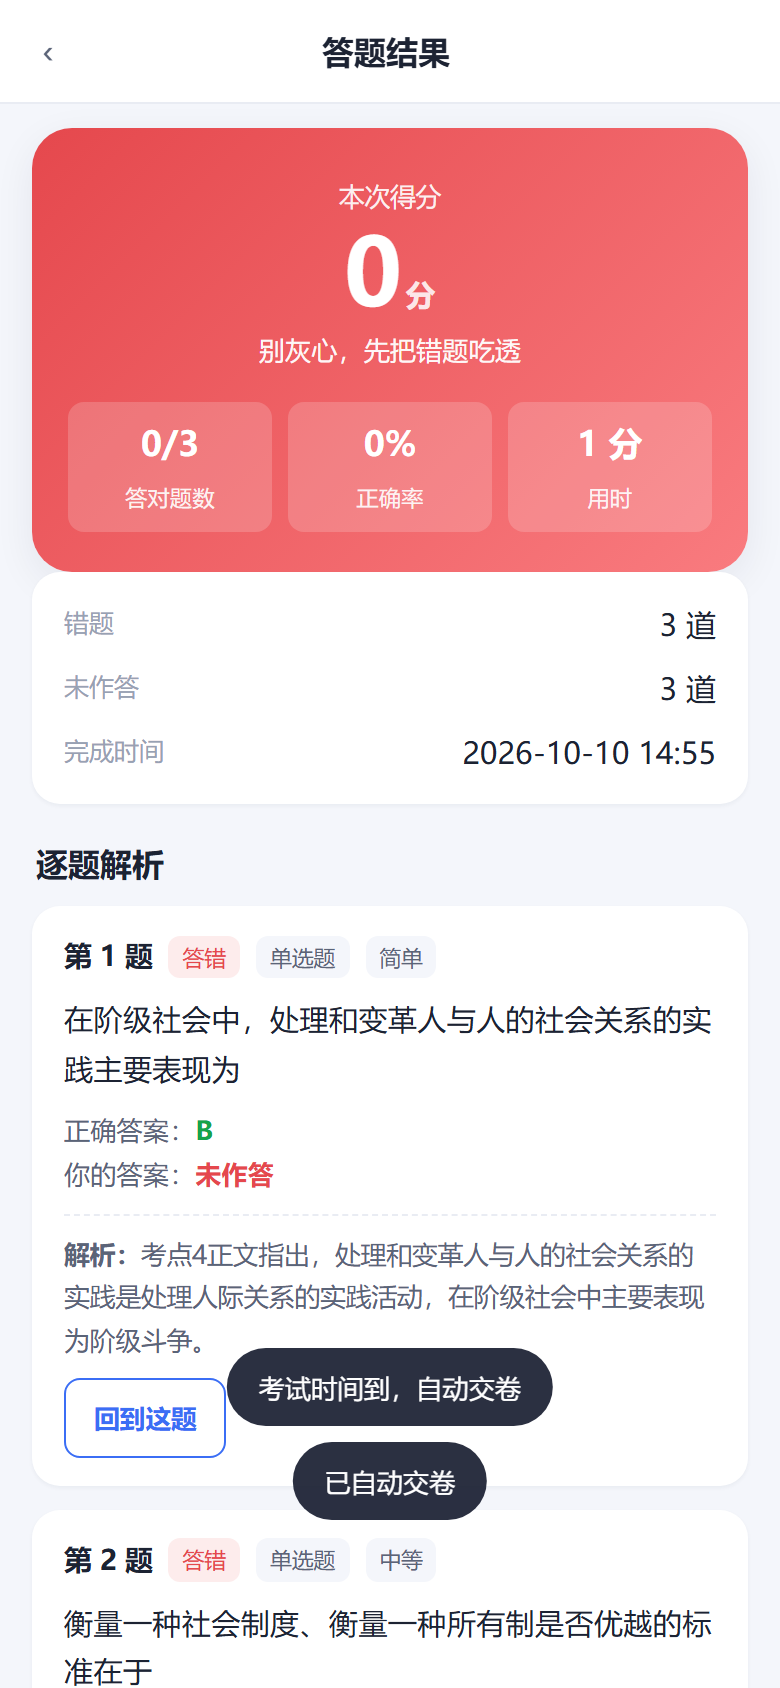
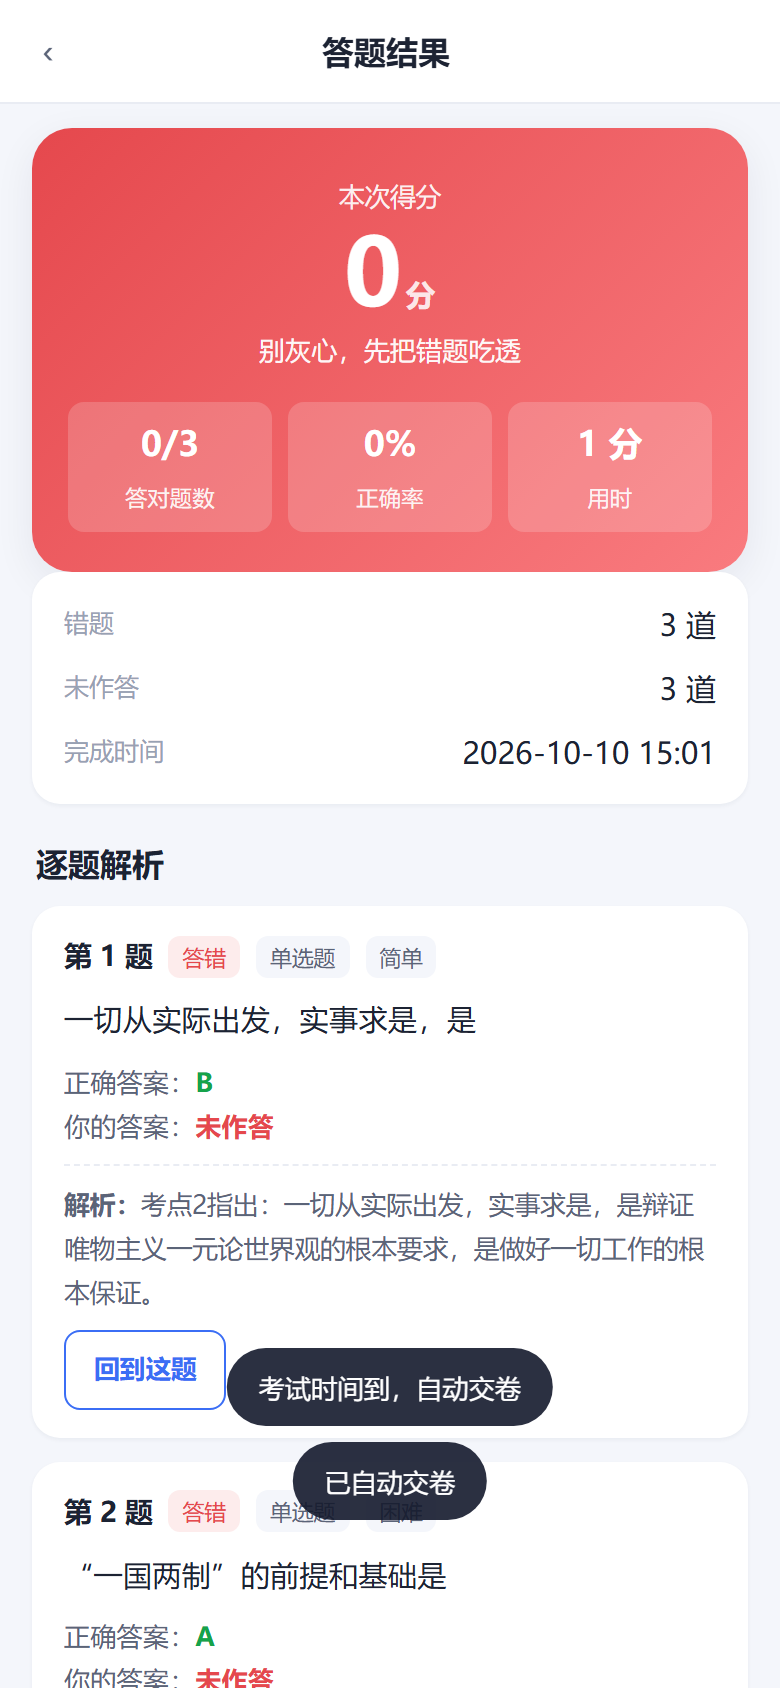
feat: 模拟考试默认按真卷规模出题（35 题 / 135 分钟）
真卷政治选择题 35 道、全卷 150 分钟。原默认 10 题 / 30 分钟与真卷差距过大，
改为 35 题 / 135 分钟，开箱即接近真实考试节奏。

Changed region(s): [[0.0615, 0.5853, 0.9231, 1.0], [0.8308, 0.4313, 0.9231, 0.4621]]

diff --git a/src/core/store.js b/src/core/store.js
@@ -319,8 +319,9 @@ const DEFAULT_SETTINGS = {
   shuffleOptions: false, // 考试模式是否打乱选项
   // 默认关闭自动下一题：作答后要能看清正确答案与解析，跳太快等于白做
   autoNext: false,
-  examQuestionCount: 10,
-  examDurationMin: 30,
+  // 真卷是 35 道选择题、全卷 150 分钟；模拟考试默认按真卷规模出题
+  examQuestionCount: 35,
+  examDurationMin: 135,
 };
 
 export function getSettings() {
